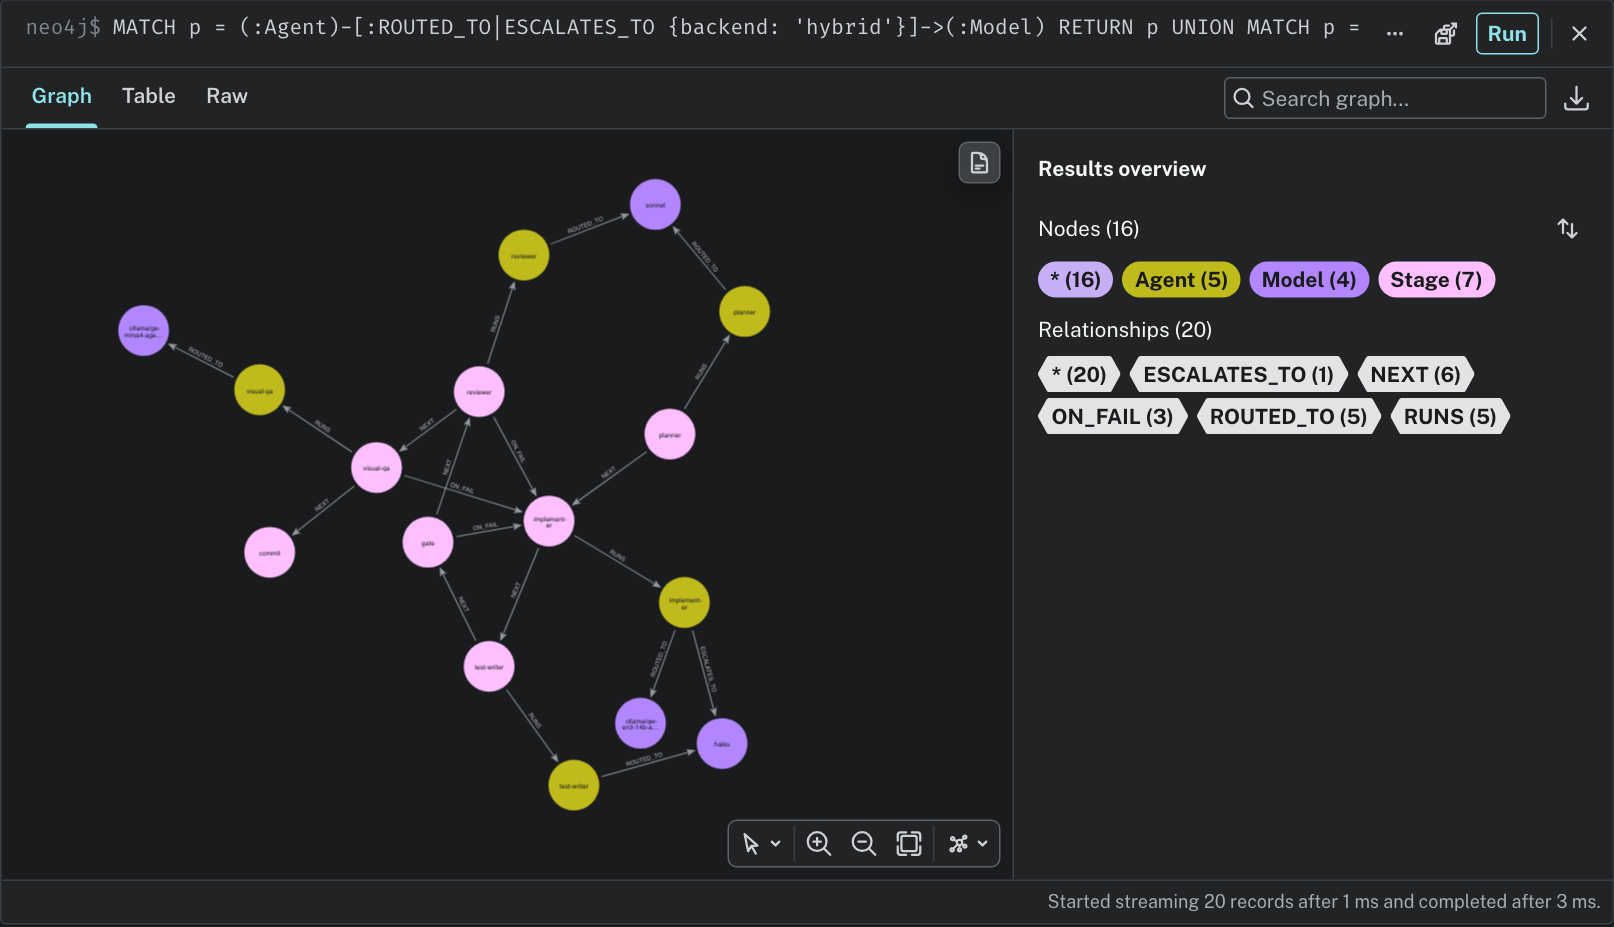
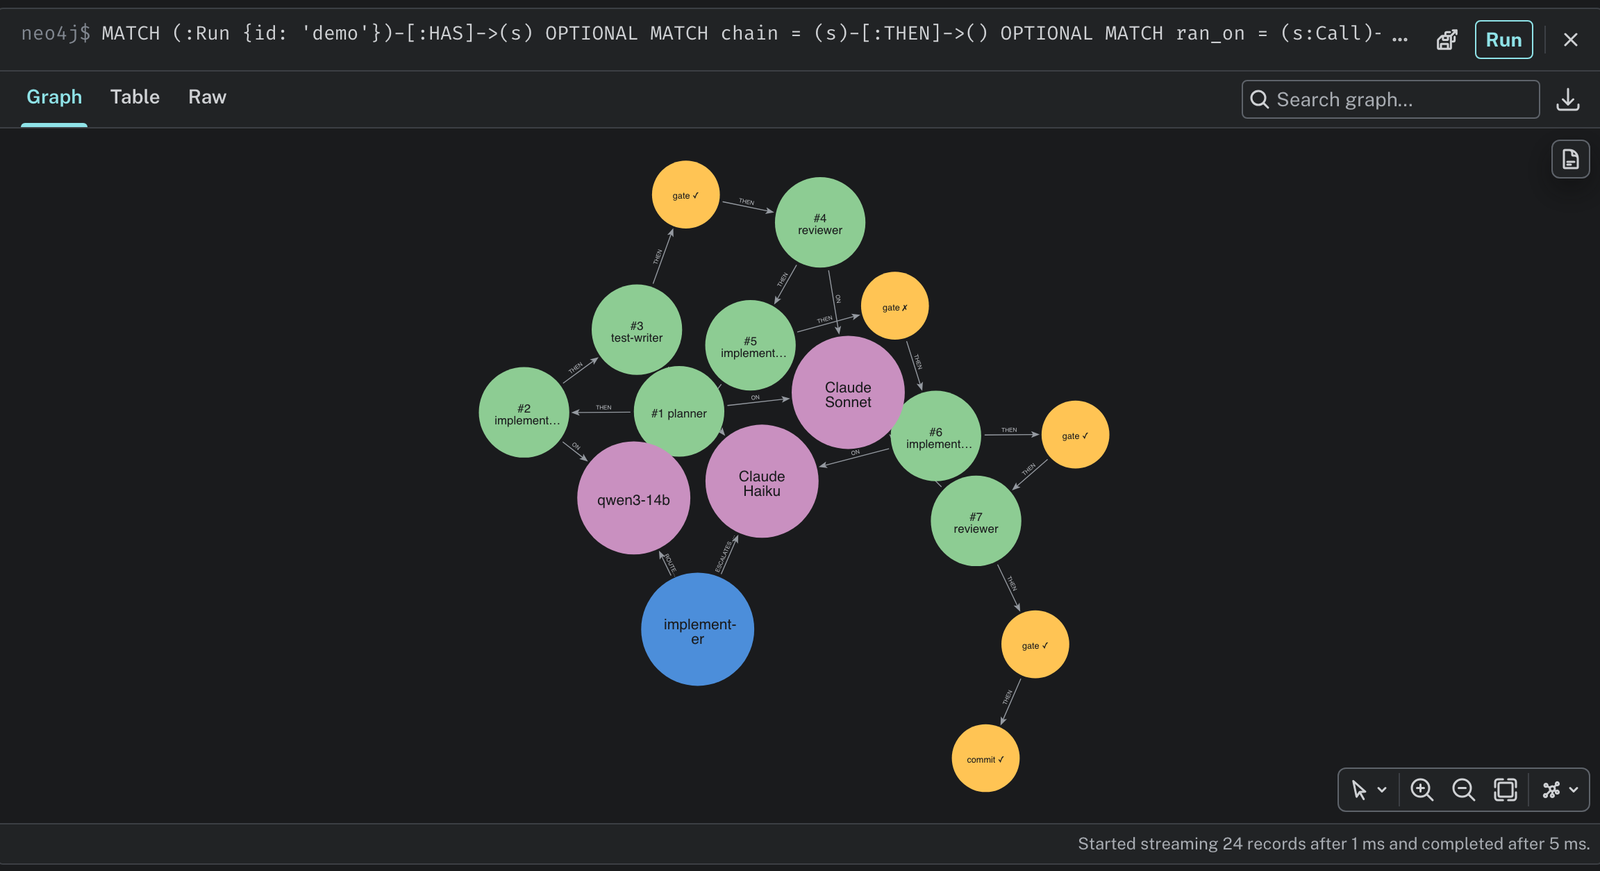
docs(graph): real Neo4j Browser capture of the demo run
Replace the unstyled structure screenshot with the demo run in Neo4j
Browser: the THEN chain of calls and checks, the model each call ran on and
the implementer's hybrid route and escalation. Calls and checks now carry a
readable `name` ("#6 implementer", "gate ✗"), which Neo4j Browser and the
MCP server pick up as the caption. The capture's query is in
harness/viewer/queries.cypher.

diff --git a/harness/graph.py b/harness/graph.py
@@ -239,7 +239,7 @@ class Tracker:
                             {"run": self.run}))
             self.escalate = False
             self.calls += 1
-            props["n"] = self.calls
+            props |= {"n": self.calls, "name": f"#{self.calls} {name}"}
             out += self._step("Call", props)
             self.open = self.last_call = self.prev
             out += [("MATCH (c:Call {id: $id}), (a:Agent {name: $agent}) CREATE (c)-[:OF]->(a)",
@@ -257,15 +257,18 @@ class Tracker:
                              "error": ev.get("error"), "cost": ev.get("cost"), "t": t}))
                 self.open = None
         elif stage in ("gate", "ocr"):
-            out += self._step("Check", props | {"kind": stage, "ok": bool(ev.get("ok")),
-                                                "screen": ev.get("screen")})
+            ok = bool(ev.get("ok"))
+            out += self._step("Check", props | {"kind": stage, "ok": ok, "screen": ev.get("screen"),
+                                                "name": f"{ev.get('screen') or stage} {'✓' if ok else '✗'}"})
         elif stage == "verdict" and self.last_call:
             out.append(("MATCH (c:Call {id: $id}) SET c.verdict = $verdict",
                         {"id": self.last_call, "verdict": ev.get("verdict")}))
         elif stage == "escalate":
             self.escalate = True
         elif stage == "commit":
-            out += self._step("Check", props | {"kind": "commit", "ok": ev.get("status") == "pass"})
+            ok = ev.get("status") == "pass"
+            out += self._step("Check", props | {"kind": "commit", "ok": ok,
+                                                "name": f"commit {'✓' if ok else '✗'}"})
             out.append(("MATCH (r:Run {id: $run}) SET r.status = $status",
                         {"run": self.run, "status": ev.get("status")}))
         elif stage in ("failed", "end"):

diff --git a/docs/graph.md b/docs/graph.md
@@ -47,7 +47,24 @@ listens on loopback; APOC is installed for the MCP server). Example queries are 
 `escalated` and the reviewer's `verdict`; `Run` carries `status`, `backend`,
 `request`, `escalations`, `cost` and the last events.
 
-![The same structure in Neo4j Browser](./media/neo4j-browser.png)
+The same run in Neo4j Browser: the chain of calls and checks (`THEN`), the
+model each call ran on (`ON`), and the implementer's hybrid route to qwen3-14b
+with its escalation to Claude Haiku. `#5 implementer` (qwen3-14b) leads to
+`gate ✗`, then `#6 implementer` runs on Haiku and the rest of the chain is green:
+
+![The demo run in Neo4j Browser](./media/neo4j-browser.png)
+
+```cypher
+MATCH (:Run {id: 'demo'})-[:HAS]->(s)
+OPTIONAL MATCH chain = (s)-[:THEN]->()
+OPTIONAL MATCH ran_on = (s:Call)-[:ON]->(:Model)
+OPTIONAL MATCH routes = (:Agent {name: 'implementer'})-[:ROUTED_TO|ESCALATES_TO {backend: 'hybrid'}]->(:Model)
+RETURN s, chain, ran_on, routes
+```
+
+Colours, sizes and captions are set per label from the chips in the
+results panel (Agent blue, Model purple, Call green, Check amber; caption
+`name`, and `label` for Model).
 
 ## Questions it answers
 

diff --git a/readme.md b/readme.md
@@ -70,6 +70,12 @@ Haiku** and the run passes ([docs/graph.md](./docs/graph.md)).
 
 ![Live agent graph: pipeline, model routes and a run with an escalation](./docs/media/agent-graph.gif)
 
+The same run in Neo4j Browser: each call linked to the next (`THEN`) and to
+the model it ran on (`ON`); the implementer's route to qwen3-14b and its
+escalation to Claude Haiku:
+
+![The demo run in Neo4j Browser](./docs/media/neo4j-browser.png)
+
 And you can ask it in plain language: `.mcp.json` plugs Neo4j's official MCP
 server (read-only) into Claude Code, which writes the Cypher itself:
 
